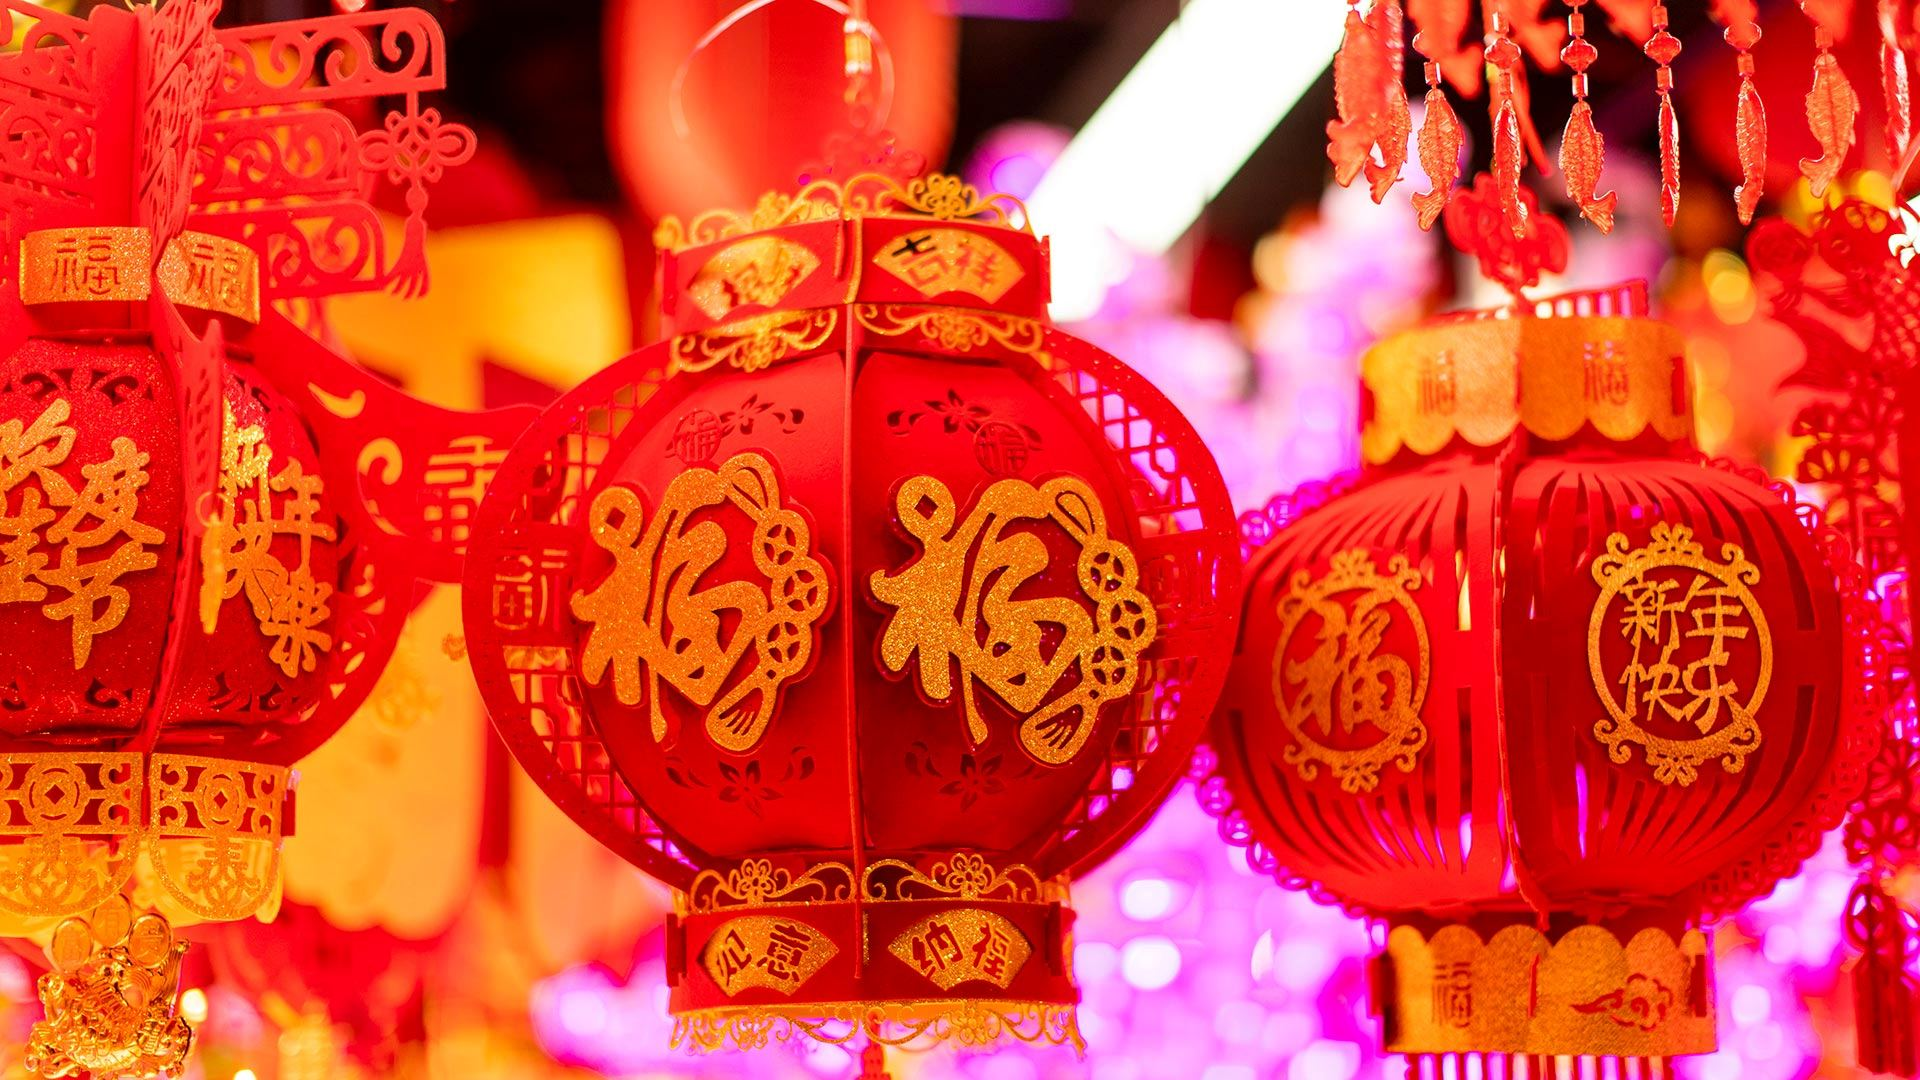
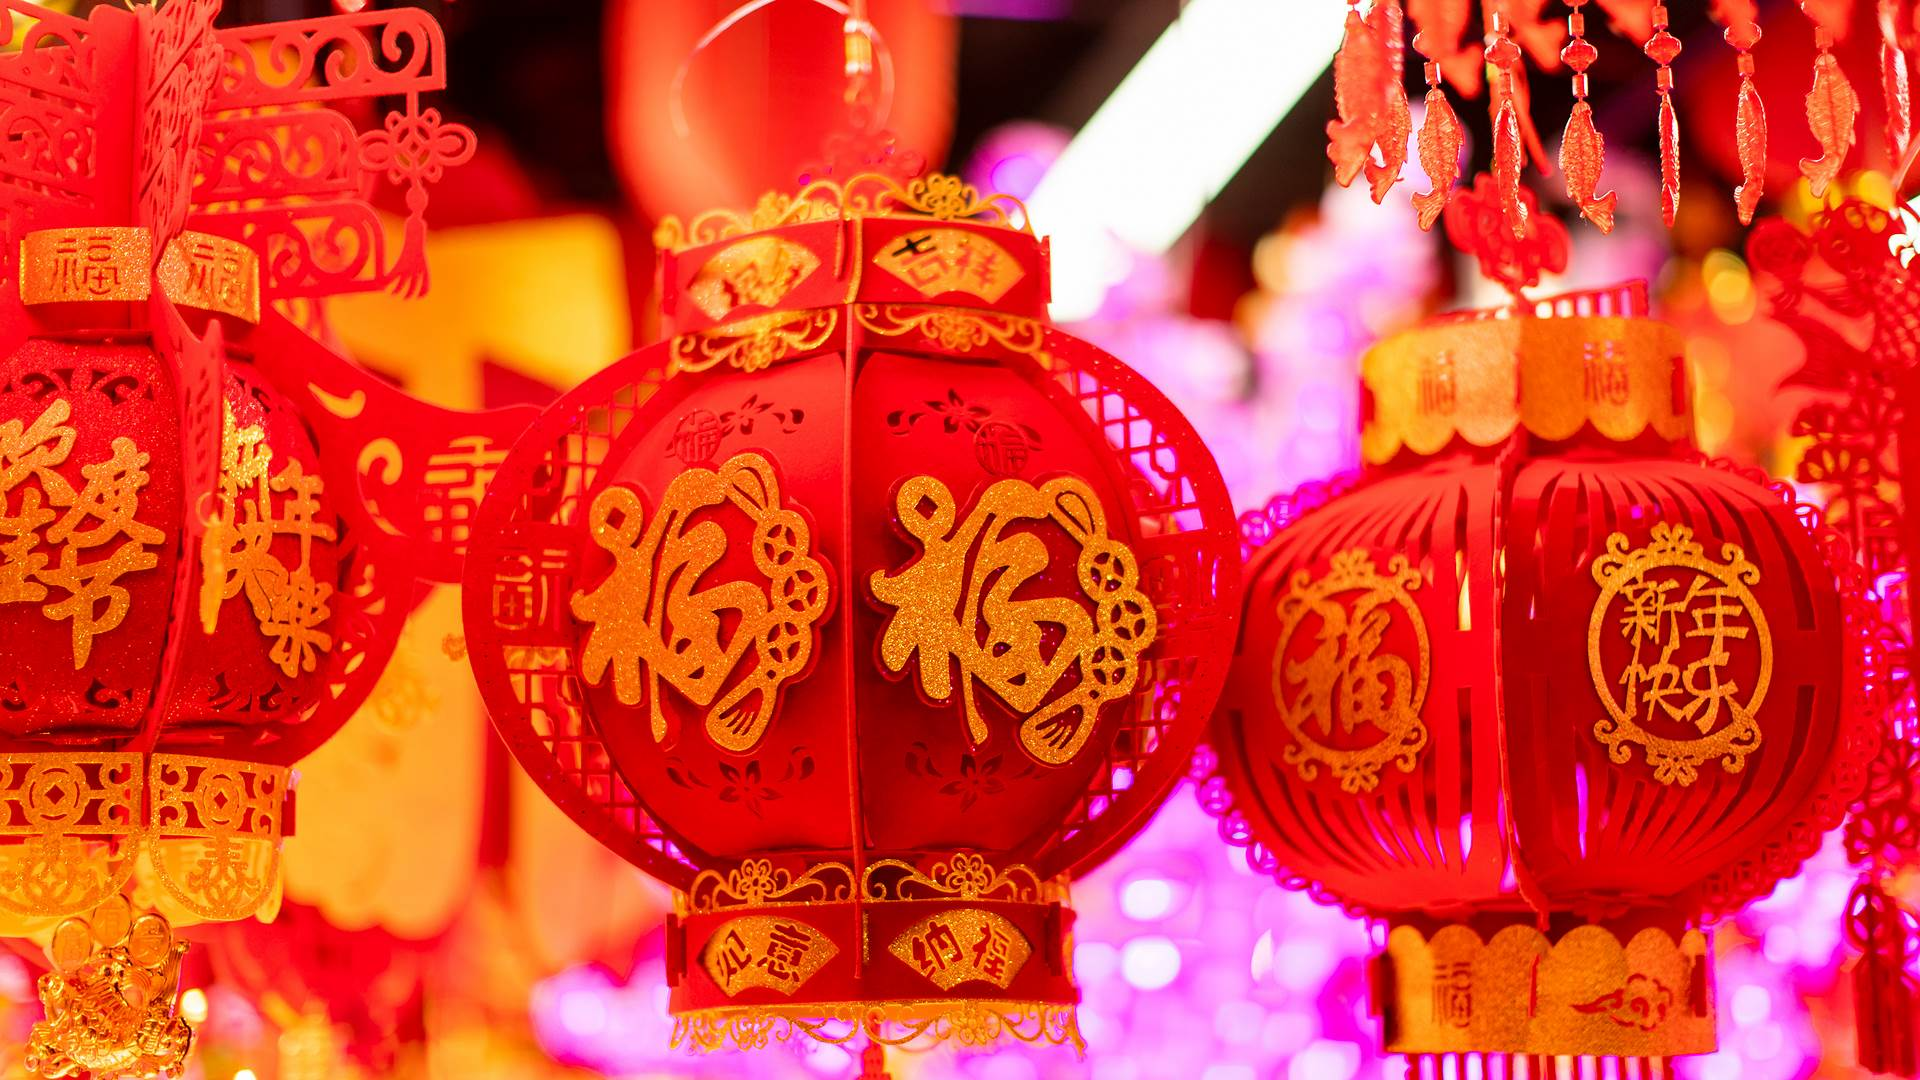
chore: use bing uhd api

Changed region(s): [[0.5312, 0.9472, 0.5625, 0.9778], [0.4688, 0.5806, 0.5, 0.6111], [0.375, 0.9472, 0.4062, 0.9778]]

diff --git a/source/js/bing-hero.js b/source/js/bing-hero.js
@@ -3,7 +3,7 @@
   if (!banner) return;
 
   const mkt = 'zh-CN';
-  const api = `https://www.bing.com/HPImageArchive.aspx?format=js&idx=0&n=1&mkt=${mkt}`;
+  const api = `https://www.bing.com/HPImageArchive.aspx?format=js&idx=0&n=1&uhd=1&mkt=${mkt}`;
 
   fetch(api)
     .then((res) => res.json())
